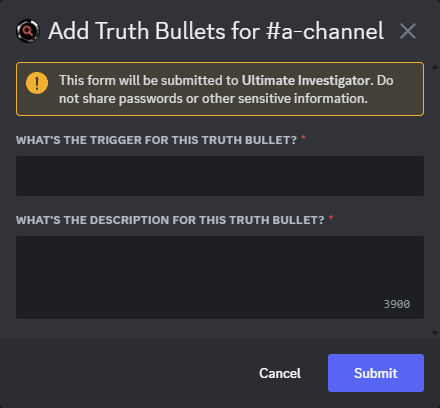
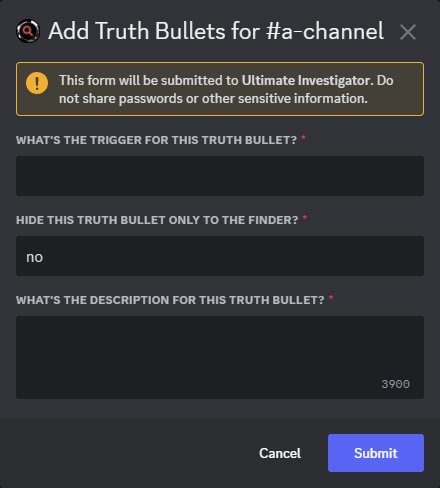
docs: note new features

diff --git a/docs/server_setup.md b/docs/server_setup.md
@@ -26,6 +26,7 @@ Your priority should be _setting up the player role and Truth Bullet channel._ T
 And you're technically ready! However, there are other commands worth noting:
 
 * `/config best-truth-bullet-finder` can be used to set roles given to the people who find the most Truth Bullets. If this is not given, no role will be handed out to those who find the most, though as of right now, a message for who sent the most is still sent.
+* `/config investigation-mode` allows you to change how Truth Bullets can be discovered. By default, they can be discovered through sending messages and through `/investigate`, but you can change this so that only `/investigate` works.
 * `/config toggle` turns on or off triggering Truth Bullets. This'll be important later.
 
 ### Setting Up Truth Bullets
@@ -38,18 +39,23 @@ Let's get started by adding Truth Bullets - use `/add-bullets` and select a chan
   ![An example of said button.](assets/add_bullets_button.png){ loading="lazy" }
 </figure>
 
-Once you click that button, a little pop-up will appear, asking you the trigger and a description (supports Discord markdown!) for the Truth Bullet you're adding.
+Once you click that button, a little pop-up will appear, asking you the trigger, if to make this Truth Bullet hidden, and a description (supports Discord markdown!) for the Truth Bullet you're adding.
 
 <figure markdown>
   ![The pop-up that appears while adding Truth Bullets.](assets/add_bullet_modal.png){ loading="lazy" }
 </figure>
 
-!!! tip "Flexibility with Triggers"
+???+ tip "Flexibility with Triggers"
     The trigger is designed to be flexible, so here are a few notes about what you can get away with:
     - You can use multiple words or a single word as a trigger.
     - Triggers are case-insensitive in terms of how they're triggered, so "oven" and "Oven" will act the same.
     - Trigger detection is _not_ word-bound, so "book" trigger will trigger on messages containing "*book*", "*book*s", "*book*shelf", "*book*!", etc., since they all have "book" in them.
     - If you need multiple triggers, look at aliases, described later.
+
+???+ tip "Hiding Truth Bullets"
+    If you want to hide a Truth Bullet, you can do so by making the second question a "yes" instead of a no. This makes it so only the finder of the Truth Bullet sees it, instead of the Truth Bullet being published to a public channel. This is useful for secrets or other things you don't want everyone to know about.
+
+    Doing this requires the bot to DM the user if investigating Truth Bullets through messages. If you use this, you may want to warn ahead of time that you should have DMs enabled with the server and/or the bot.
 
 Specify those and press send - you should get a message able how that was done successfully!
 

diff --git a/docs/using_the_bot.md b/docs/using_the_bot.md
@@ -38,16 +38,29 @@ All you need to do is send a message with the word "ink" (case-insensitive) some
 > 
 > Ink (OOC Note: Yes, this simple example works - after all, it does have the word "ink." Try not to do this though - it ruins the fun of investigating for everyone.)
 
+Usually, a staff member would step in to show a Truth Bullet related to the ink, but in this case, the bot will reply instead with something like this in both the channel you're in and your Truth Bullets channel:
+
 <figure markdown>
   ![Example of a message triggering a Truth Bullet.](assets/trigger_example.png)
   <figcaption>The message that triggered the Bullet, in this case.</figcaption>
 </figure>
 
-Usually, a staff member would step in to show a Truth Bullet related to the ink, but in this case, the bot will reply instead with something like this in both the channel you're in and your Truth Bullets channel:
 
 And that's it - you've investigated the ink! The trigger here was "ink" - the staff set it up so that the bot would do this with that phrase. You can try to say multiple triggers, but the bot will only do one (decided essentially at random) - best to space them out, or even let other players do them for you.
 
 You could investigate the rest of the suspicious things in the same way. Things like "\[My OC] started to look at the _blood_." would trigger a new Truth Bullet, and there are some triggers in the above example image to find even more of them. The idea is to keep following the little hints about triggers/important things to investigate until you've found them all, which the bot will note if you've done so in the Truth Bullets channel.
+
+### Alternate Investigation Method
+
+As a solution matching a certain other bot, if you don't wish to send a whole message, you can use `/investigate` with the *exact trigger* (case insentiive) to trigger a Truth Bullet. For example, `/investigate ink` would trigger the same Truth Bullet as the examples above.
+
+Some servers may require only this method, so it's good to know about it.
+
+### Hidden Truth Bullets
+
+Some Truth Bullets may be marked as hidden - this means that only you, the finder of the Truth Bullet, will see it. The bot will DM you if you sent a message with the trigger, or send a response only visible to you if you use `/investigate`, to show you the Truth Bullet. The staff will likely want you to keep them secret until a certain point, so be careful with them!
+
+This does require DMs with the bot to be enabled. Hopefully, the staff will warn you ahead of time if they're planning on using hidden Truth Bullets.
 
 ## Notes
 
